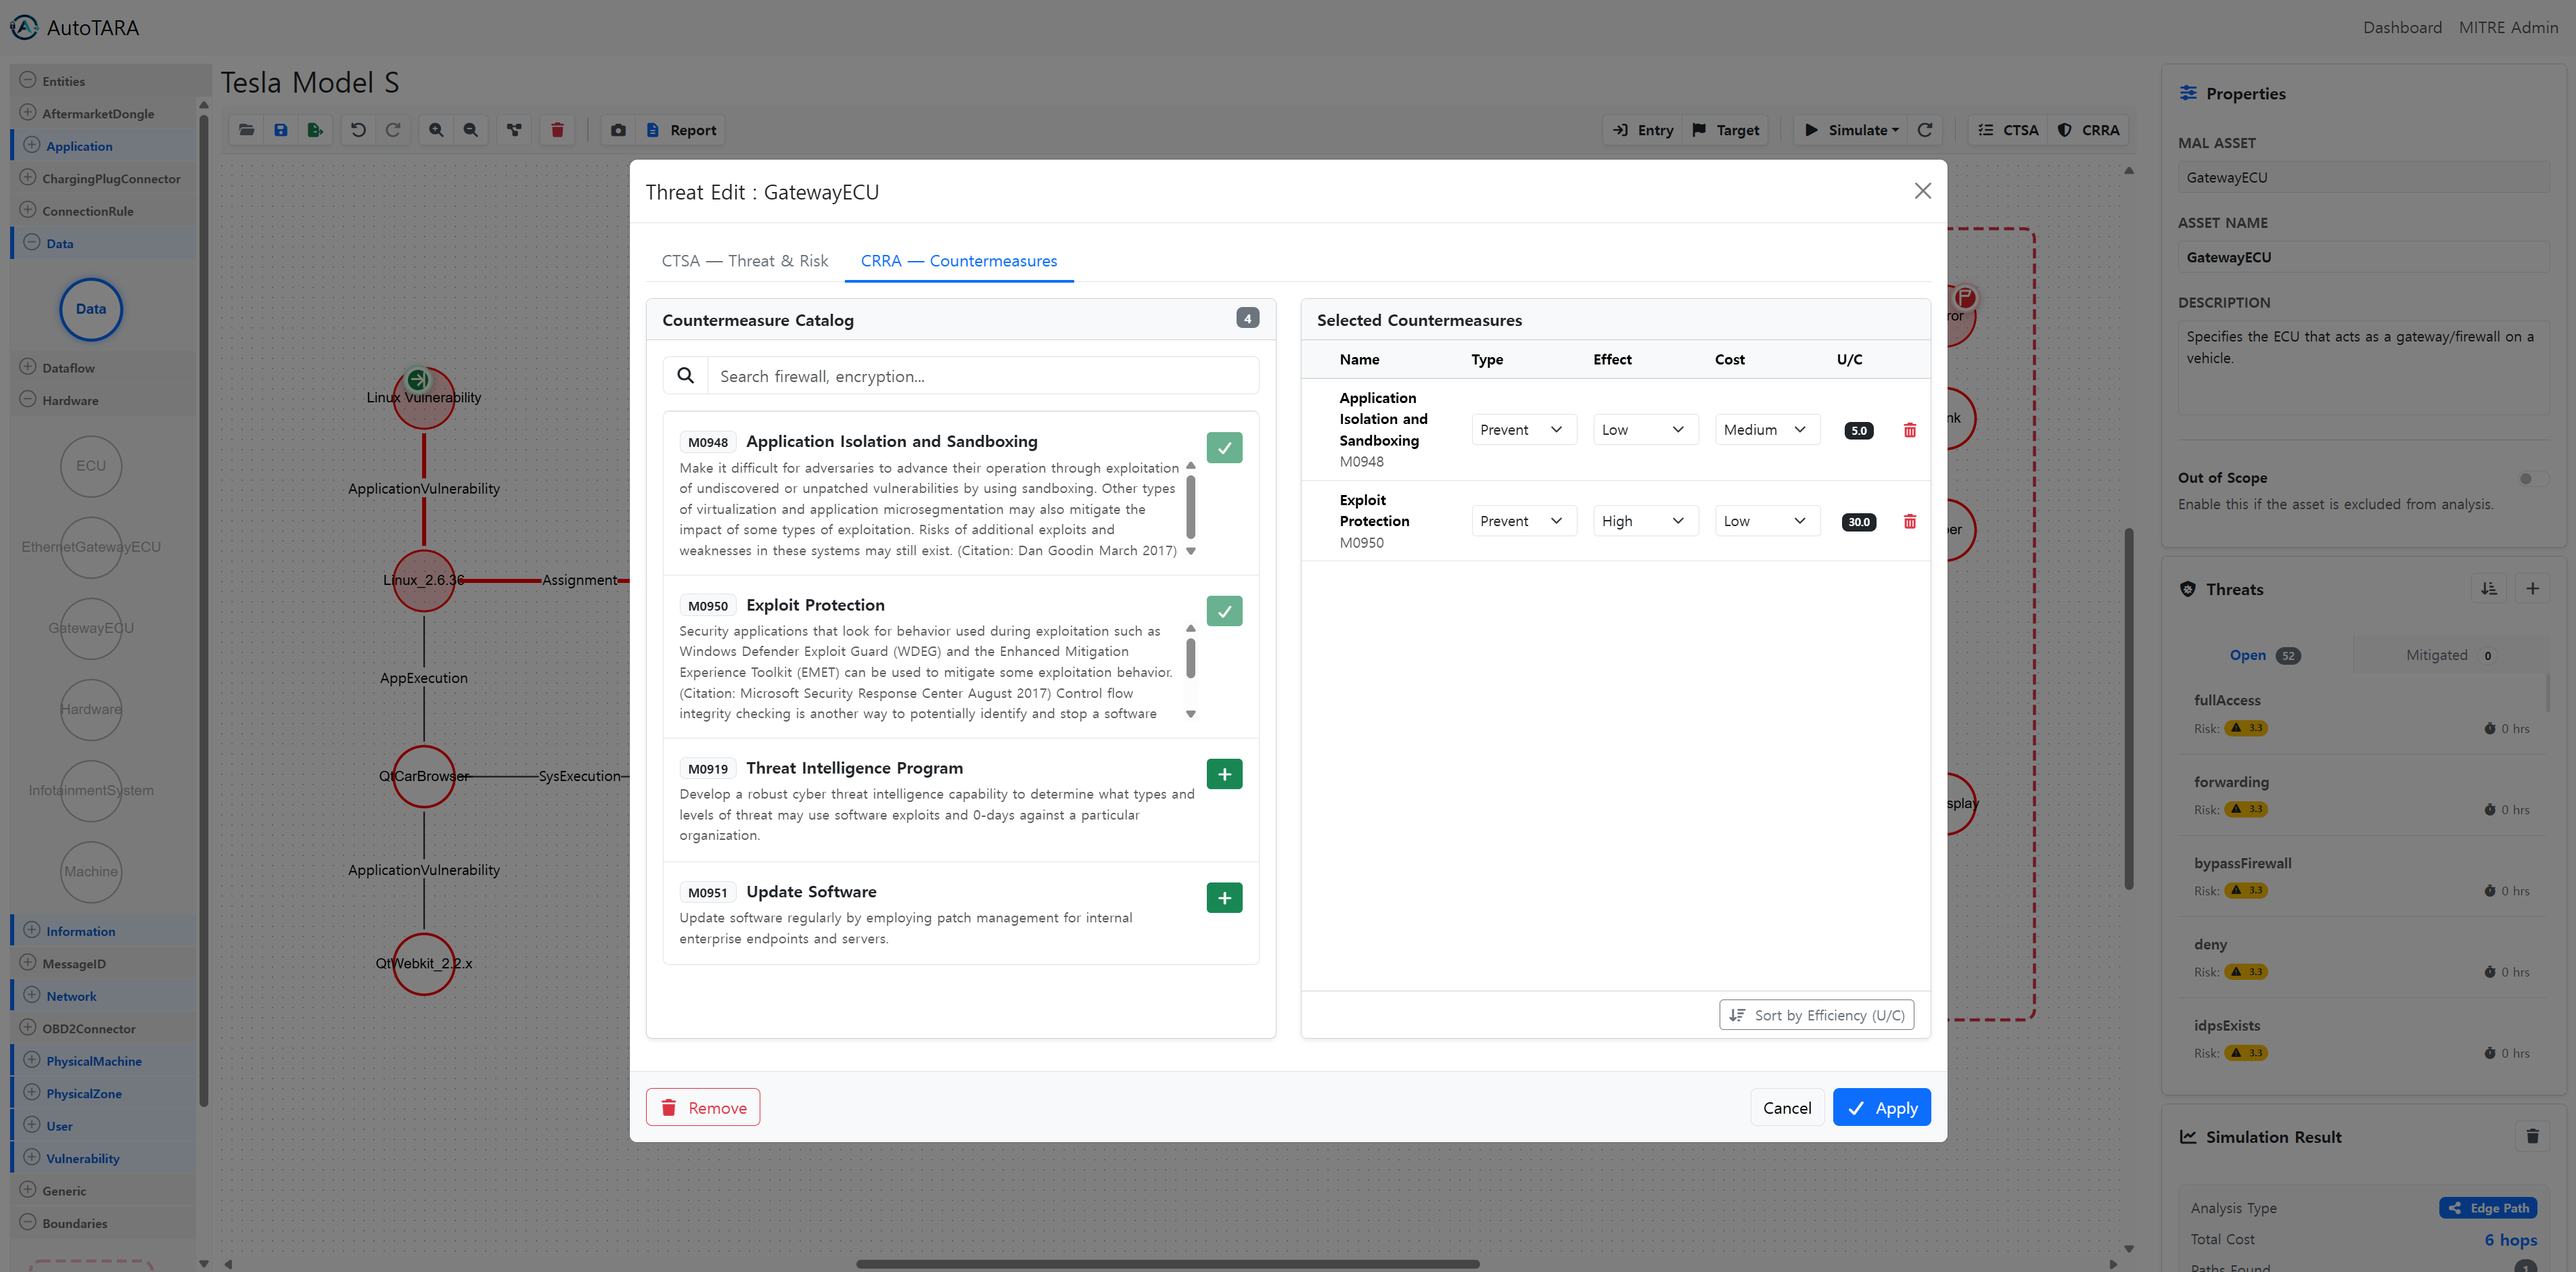
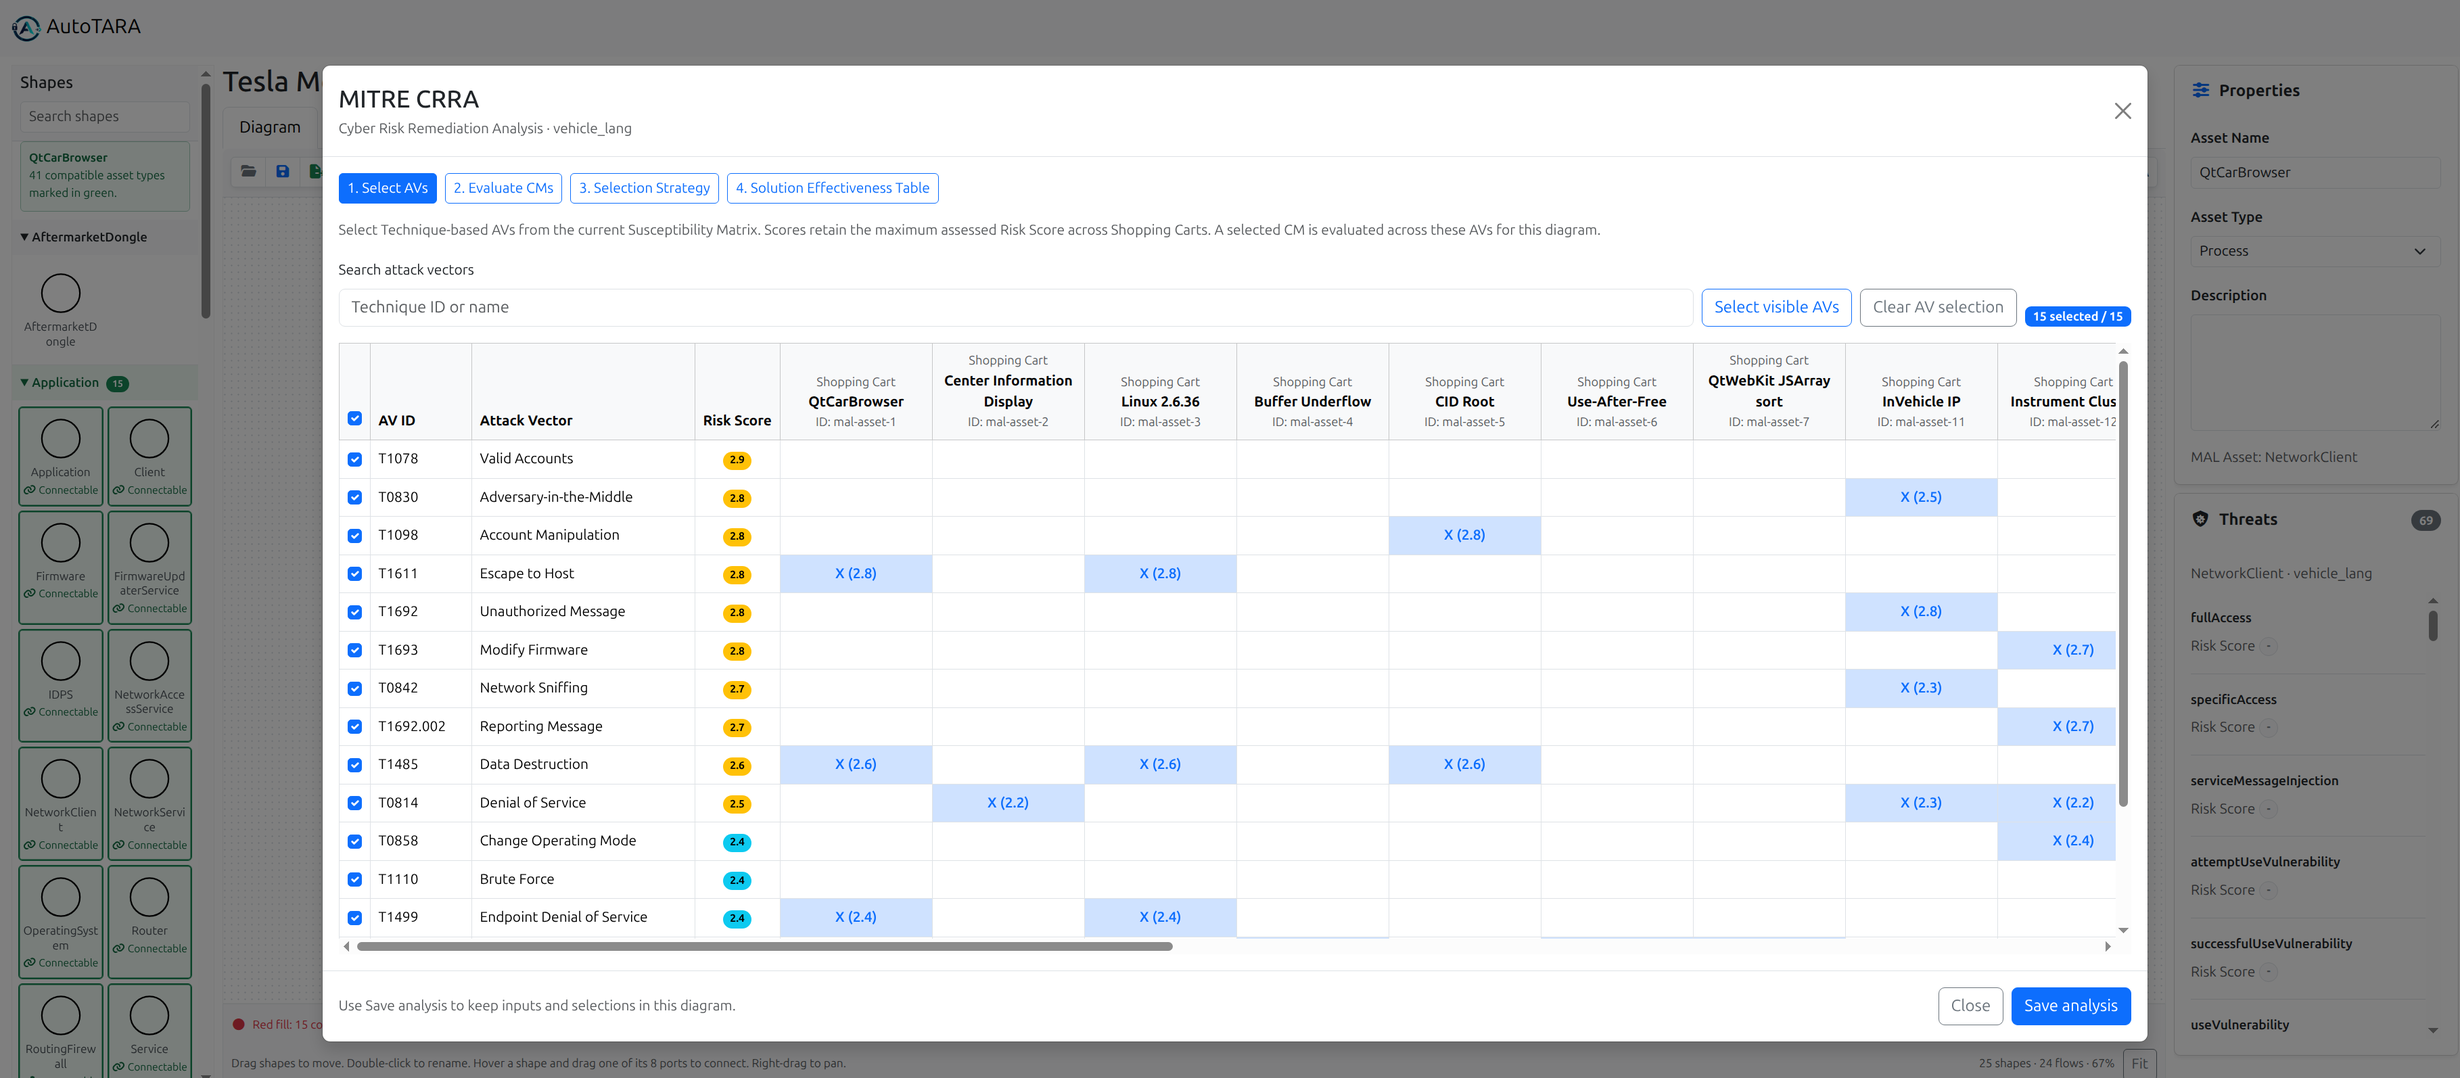
docs / update preview image

diff --git a/README.md b/README.md
@@ -163,7 +163,4 @@ The full stack is managed through the root `docker-compose.yml`.
 
 ## 👏 Acknowledgements
 
-This project incorporates code and concepts from **[OWASP Threat Dragon](https://github.com/OWASP/threat-dragon)**.
-We thank the OWASP community for its significant contributions to open-source threat modeling tools.
-Threat Dragon is licensed under the [Apache License 2.0](https://github.com/OWASP/threat-dragon/blob/main/LICENSE).
-We also thank KTH for the **[Meta Attack Language (MAL)](https://mal-lang.org/)**, which informed the MAL-based modeling and simulation capabilities in AutoTARA.
+We thank KTH for the **[Meta Attack Language (MAL)](https://mal-lang.org/)**, which informed the MAL-based modeling and simulation capabilities in AutoTARA.
